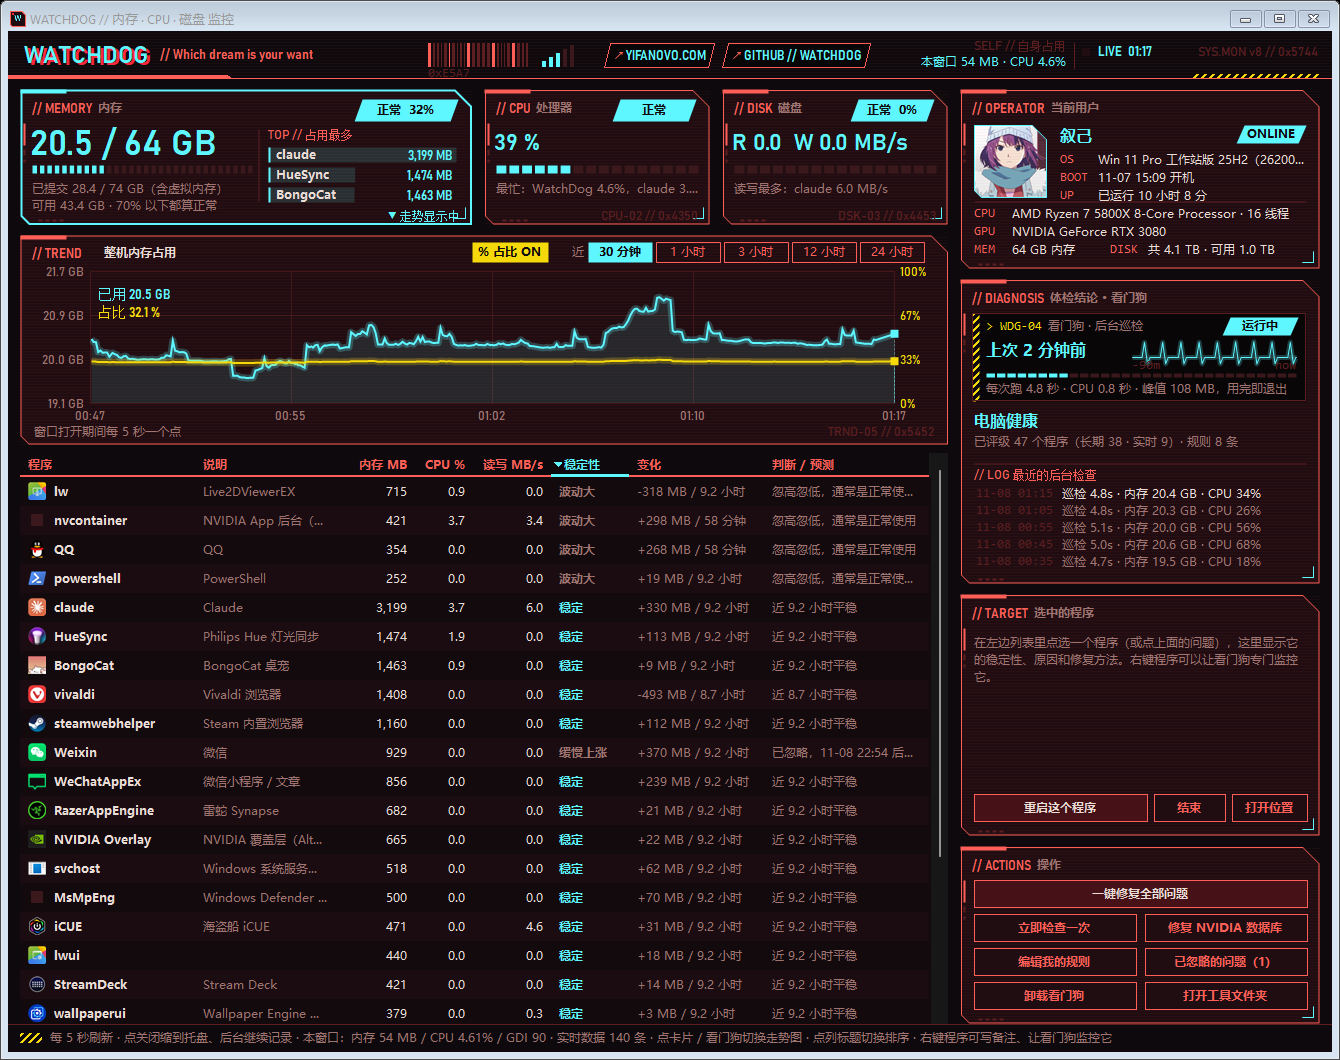
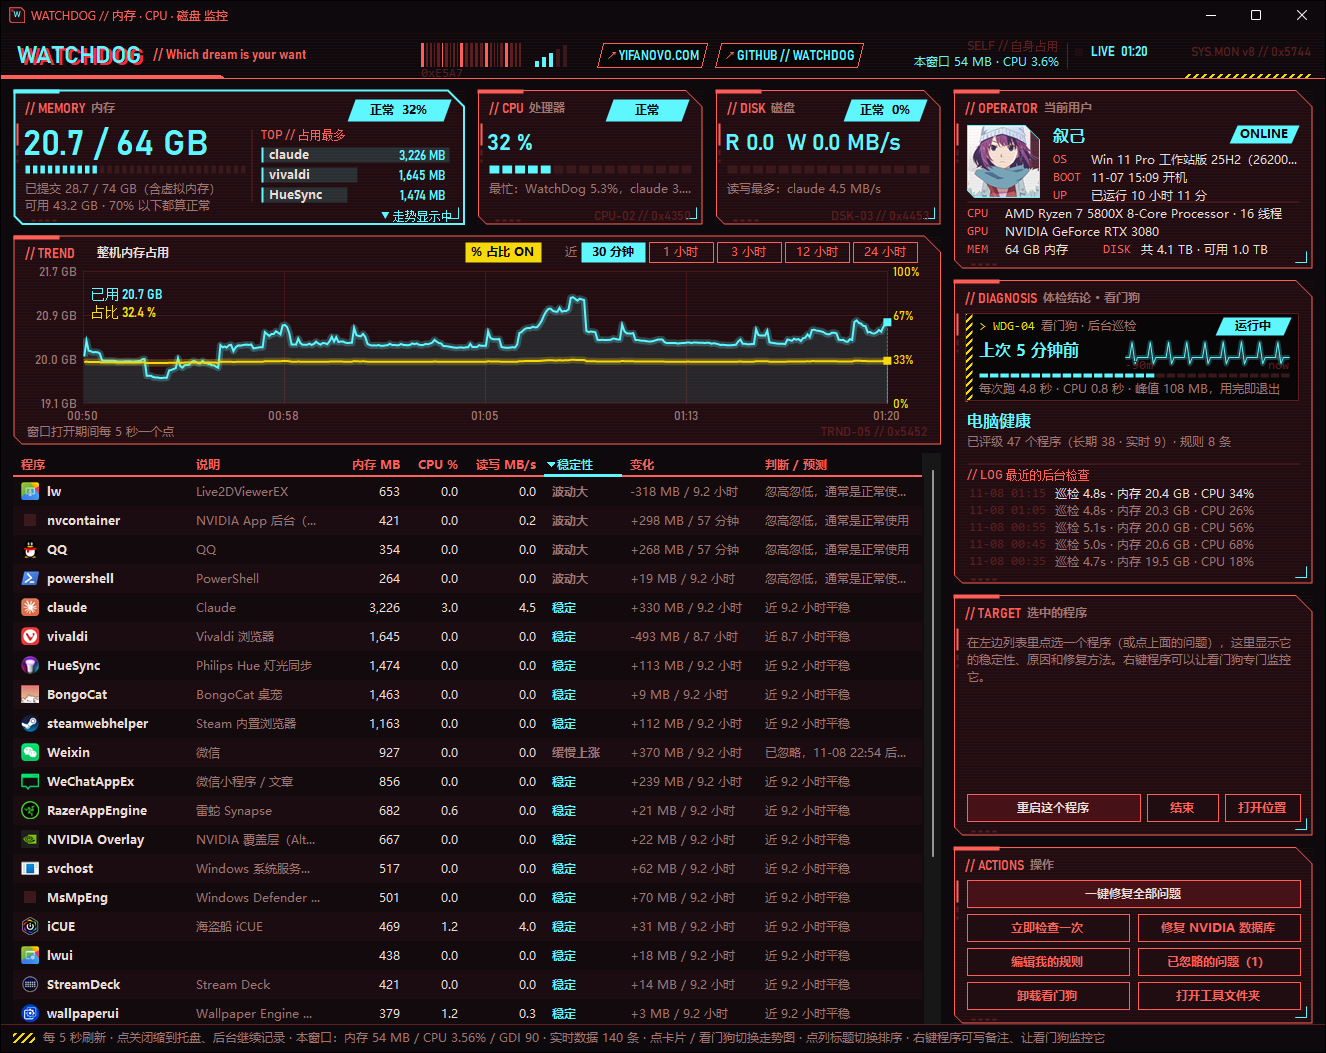
Self-test snapshots capture the real window frame (dark title bar)
DrawToBitmap draws an old-style light caption; PrintWindow with
PW_RENDERFULLCONTENT captures what DWM shows. Retook README screenshots.

Changed region(s): [[0.0, 0.0, 1.0, 1.0]]

diff --git a/src/Program.cs b/src/Program.cs
@@ -74,6 +74,29 @@ namespace WatchDog
             return 0;
         }
 
+        // 截图：用 PrintWindow 抓窗口真实的样子（含 Windows 11 的深色标题栏和珊瑚红边框），
+        // 再裁掉窗口四周看不见的拖拽边；失败时退回 DrawToBitmap 的结果（标题栏会是老式的浅色）
+        static void Snapshot(Form form, string file, Bitmap fallback)
+        {
+            Application.DoEvents(); Thread.Sleep(300); Application.DoEvents();
+            Native.RECT wr, fr;
+            Native.GetWindowRect(form.Handle, out wr);
+            if (Native.DwmGetWindowAttribute(form.Handle, 9, out fr, 16) != 0) fr = wr;   // DWMWA_EXTENDED_FRAME_BOUNDS
+            using (Bitmap full = new Bitmap(wr.R - wr.L, wr.B - wr.T))
+            {
+                bool ok;
+                using (Graphics g = Graphics.FromImage(full))
+                {
+                    IntPtr hdc = g.GetHdc();
+                    ok = Native.PrintWindow(form.Handle, hdc, 2);   // PW_RENDERFULLCONTENT
+                    g.ReleaseHdc(hdc);
+                }
+                if (!ok) { fallback.Save(file, System.Drawing.Imaging.ImageFormat.Png); return; }
+                Rectangle crop = new Rectangle(fr.L - wr.L, fr.T - wr.T, fr.R - fr.L, fr.B - fr.T);
+                using (Bitmap c = full.Clone(crop, full.PixelFormat)) c.Save(file, System.Drawing.Imaging.ImageFormat.Png);
+            }
+        }
+
         static Dictionary<string, string> ParseArgs(string[] argv)
         {
             Dictionary<string, string> d = new Dictionary<string, string>(StringComparer.OrdinalIgnoreCase);
@@ -120,7 +143,7 @@ namespace WatchDog
                                     Native.GetGuiResources(me.Handle, 0), Native.GetGuiResources(me.Handle, 1), form.IconCount, form.SeriesCount));
                         }
                     }
-                    if (snapshot != null) bmp.Save(snapshot, System.Drawing.Imaging.ImageFormat.Png);
+                    if (snapshot != null) Snapshot(form, snapshot, bmp);
                     form.Report(outp);
                     outp.AppendLine("--- 自身资源 ---");
                     foreach (string s in mem) outp.AppendLine(s);

diff --git a/src/Native.cs b/src/Native.cs
@@ -34,6 +34,10 @@ namespace WatchDog
         [DllImport("uxtheme.dll", CharSet = CharSet.Unicode)] public static extern int SetWindowTheme(IntPtr h, string app, string id);
         [DllImport("user32.dll")] public static extern IntPtr SendMessage(IntPtr h, int msg, IntPtr w, IntPtr l);
         [DllImport("kernel32.dll")] public static extern ulong GetTickCount64();
+        [StructLayout(LayoutKind.Sequential)] public struct RECT { public int L, T, R, B; }
+        [DllImport("user32.dll")] public static extern bool GetWindowRect(IntPtr h, out RECT r);
+        [DllImport("user32.dll")] public static extern bool PrintWindow(IntPtr h, IntPtr hdc, int flags);
+        [DllImport("dwmapi.dll")] public static extern int DwmGetWindowAttribute(IntPtr h, int attr, out RECT r, int size);
         [DllImport("user32.dll")] public static extern bool InvalidateRect(IntPtr h, IntPtr rect, bool erase);
         [DllImport("user32.dll")] public static extern bool AllowSetForegroundWindow(int pid);
         [DllImport("advapi32.dll", CharSet = CharSet.Unicode)] static extern IntPtr OpenSCManager(string machine, string db, uint access);
